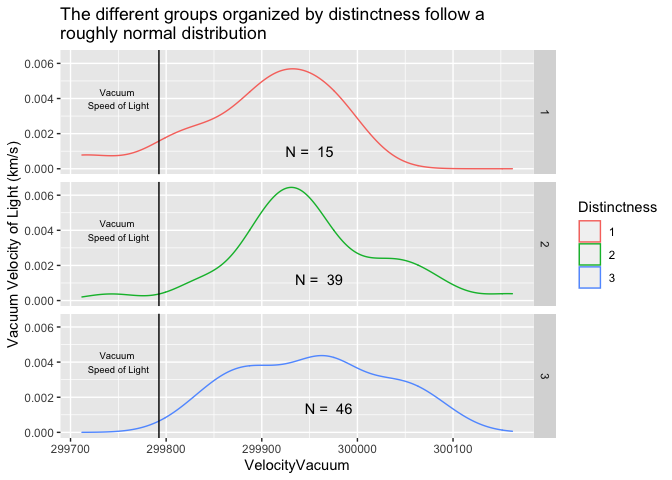
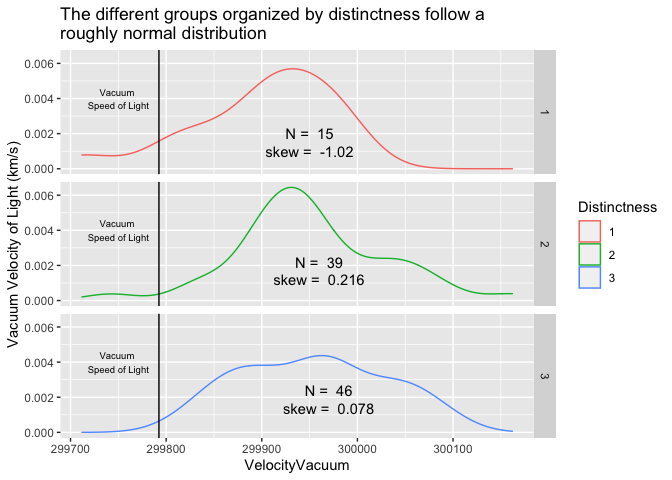
Final draft!

diff --git a/challenges/c02-michelson-assignment.md b/challenges/c02-michelson-assignment.md
@@ -66,6 +66,7 @@ for more information.
 library(tidyverse)
 library(googlesheets4)
 library(cowplot)
+library(moments)
 
 url <- "https://docs.google.com/spreadsheets/d/1av_SXn4j0-4Rk0mQFik3LLr-uf0YdA06i3ugE6n-Zdo/edit?usp=sharing"
 
@@ -241,7 +242,8 @@ df_error <- df_q2 %>%
     min = min(VelocityVacuum),
     mean_uncertainty = (max-min)/(2*sqrt(count)),
     rel_uncertainty = mean_uncertainty/avg,
-    rel_err = abs((avg - LIGHTSPEED_VACUUM)/LIGHTSPEED_VACUUM)*100
+    rel_err = abs((avg - LIGHTSPEED_VACUUM)/LIGHTSPEED_VACUUM)*100,
+    skew = round(skewness(VelocityVacuum),3)
     )
 ```
 
@@ -252,11 +254,11 @@ df_error %>%
   knitr::kable()
 ```
 
-| Distinctness | count |      avg |    max |    min | mean\_uncertainty | rel\_uncertainty |  rel\_err |
-| :----------- | ----: | -------: | -----: | -----: | ----------------: | ---------------: | --------: |
-| 1            |    15 | 299900.0 | 299992 | 299712 |          36.14784 |        0.0001205 | 0.0358721 |
-| 2            |    39 | 299950.5 | 300162 | 299742 |          33.62691 |        0.0001121 | 0.0527043 |
-| 3            |    46 | 299953.7 | 300092 | 299812 |          20.64187 |        0.0000688 | 0.0537976 |
+| Distinctness | count |      avg |    max |    min | mean\_uncertainty | rel\_uncertainty |  rel\_err |    skew |
+| :----------- | ----: | -------: | -----: | -----: | ----------------: | ---------------: | --------: | ------: |
+| 1            |    15 | 299900.0 | 299992 | 299712 |          36.14784 |        0.0001205 | 0.0358721 | \-1.020 |
+| 2            |    39 | 299950.5 | 300162 | 299742 |          33.62691 |        0.0001121 | 0.0527043 |   0.216 |
+| 3            |    46 | 299953.7 | 300092 | 299812 |          20.64187 |        0.0000688 | 0.0537976 |   0.078 |
 
 ***Observations***:
 
@@ -279,12 +281,12 @@ between Michelson’s estimate and `LIGHTSPEED_VACUUM`?
 ## Your code here!
 
 dat_text <- data.frame(
-  label = paste("N = ",as.character(pull(df_error,2))),
+  label1 = paste("N = ",as.character(pull(df_error,2))),
+  label2 = paste("skew = ", as.character(pull(df_error, "skew"))),
   Distinctness   = pull(df_error,1),
   x     = c(299950, 299960, 299970),
-  y     = c(0.001, 0.0012, 0.0014)
+  y     = c(0.002, 0.0022, 0.0024)
 )
-
 
 plot1 <- df_q2 %>% 
   ggplot() +
@@ -302,7 +304,11 @@ plot1 <- df_q2 %>%
   geom_vline(xintercept = LIGHTSPEED_VACUUM) +
   geom_text(
     data= dat_text,
-    mapping = aes(x = x, y = y, label = label) 
+    mapping = aes(x = x, y = y, label = label1) 
+  ) +
+  geom_text(
+    data= dat_text,
+    mapping = aes(x = x, y = y-0.001, label = label2) 
   )
 
 plot3 <- df_q2 %>% 
@@ -366,6 +372,27 @@ plot5 <- df_error %>%
     ## Warning: Ignoring unknown parameters: width
 
 ``` r
+plot9 <- df_q2 %>%
+  ggplot() +
+  geom_hline(yintercept = LIGHTSPEED_VACUUM) +
+  geom_point(aes(x = Date, alpha = Temp, color = Distinctness, y = Velocity)) +
+  geom_smooth(aes(x = Date, y = Velocity))
+
+plot10 <- df_q2 %>% 
+  ggplot() +
+  geom_density(
+    aes(Temp, 
+        color = Distinctness, 
+        group = Distinctness)
+    ) +
+  facet_grid(Distinctness~.) +
+  geom_text(
+    data= dat_text,
+    mapping = aes(x = c(80,80,80), y = c(0.04, 0.02, 0.01), label = label1)
+  )
+```
+
+``` r
 plot1 + labs(title = "The different groups organized by distinctness follow a \nroughly normal distribution", y = "Vacuum Velocity of Light (km/s)")
 ```
 
@@ -373,17 +400,91 @@ plot1 + labs(title = "The different groups organized by distinctness follow a \n
 
 ***Observations for first plot***
 
+  - **Distinctness groups 2 and 3 demonstrate a tendency towards a
+    normal distribution indicating that his data is clustered enough to
+    demonstrate a clear mean.**
+  - **Distinctness group 1 demonstrated a skew to the left but I wonder
+    if this is because a larger sample size would resolve the skew.**
+
+<!-- end list -->
+
 ``` r
-plot3 + labs(title = "Density of Velocity of Light (measured but not corrected) vs Temperature", subtitle = "True Vacuum Velocity of Light denoted with a white horizontal line", x = "Velocity (km/s)", y = "Temperature (degrees C)")
+plot3 + labs(title = "Density of Velocity of Light (measured but not corrected) vs Temperature", subtitle = "True Vacuum Velocity of Light denoted with a black horizontal line", y = "Vacuum Velocity of Light (km/s)", x = "Temperature (degrees F)")
 ```
 
 ![](c02-michelson-assignment_files/figure-gfm/second%20plot-1.png)<!-- -->
+
+***Observations for second plot***
+
+  - **There was not a clear and strong relationship between temperature
+    and distinctness.**
+  - **That being said, it would seem that the images were most distinct
+    (3) at temperatures between 70-80 degrees F. The question is - was
+    this good luck, is there a correlation, or could it be a cause?**
+  - **Given the high human effort to perform tests, I wonder if simply
+    comfortability (that is to say, most people are comfortable in 70-80
+    degree F environments, hotter is sticky and gross).**
+  - **Alternatively, with research I see that humidity affects the
+    refractive index of air, so perhaps this was at play on particularly
+    cool or hot days.**
+
+<!-- end list -->
 
 ``` r
 plot5 + labs(title = "Vacuum Velocity Uncertainty by Distinctness", y = "Average Vacuum Velocity of Light (km/s)", subtitle = "Whisker represent calculated uncertainty in the mean per Distinctness")
 ```
 
 ![](c02-michelson-assignment_files/figure-gfm/third%20plot-1.png)<!-- -->
+
+***Observations for third plot***
+
+  - **Michelson’s nominal speed of light looks well informed by his data
+    set: The Michelson’s nominal speed of light is very similar to the
+    mean of Distinctness group 2 and 3.**
+  - **The uncertainty in his measurement (aka range/2) is large enough
+    to capture the true vacuum speed of light.**
+  - **Michelson’s estimated range is well informed by his data set - it
+    accomodated both the estimated measurement errors (outlined in his
+    [report](https://play.google.com/books/reader?id=343nAAAAMAAJ&hl=en&pg=GBS.PA115))
+    and the uncertainty in the mean (demonstrated with the whiskers).**
+
+<!-- end list -->
+
+``` r
+plot9 + labs(title = "Velocity measurements approached the true vacuum velocity of light over time", subtitle = "True Vacuum Velocity of Light denoted with a black horizontal line", y = "Measured Velocity of Light (km/s)", x = "Date")
+```
+
+    ## `geom_smooth()` using method = 'loess' and formula 'y ~ x'
+
+![](c02-michelson-assignment_files/figure-gfm/fourth%20plot-1.png)<!-- -->
+
+***Observations for fourth plot***
+
+  - **The velocity measurements (before correcting for temperature)
+    approached the true vacuum velocity of light - could this be because
+    the testers were more used to the test procedure, were having a
+    great couple of days, or was something meteorological going on?**
+  - **It looks like the temperature vs distinctness is not concentrated
+    - bu how about I confirm?**
+
+<!-- end list -->
+
+``` r
+plot10 + labs(title = "The density of the high distinctness group (3) is forming a normal distribution", subtitle = "However being in this temperature range does not mean the distinctness will be high", x = "Temperature (degree F)")
+```
+
+![](c02-michelson-assignment_files/figure-gfm/fifth%20plot-1.png)<!-- -->
+
+***Observations for fifth plot***
+
+  - **Distinctness group 3 images more frequently occur when the
+    temperature is about 75-98 degrees F - and it is following a normal
+    distribution with a skew to the right.**
+  - **Other distinctness groups do not demonstrate a clear
+    distribution.**
+  - **This is where I got tired so I stopped working here\! Upon
+    reflection, this plot just re-terates my density plot. So this is a
+    good example of having few but powerful plots\!**
 
 ## Bibliography
 
@@ -393,3 +494,8 @@ plot5 + labs(title = "Vacuum Velocity Uncertainty by Distinctness", y = "Average
   - \[2\] Henrion and Fischhoff, [Assessing Uncertainty in Physical
     Constants](https://www.cmu.edu/epp/people/faculty/research/Fischoff-Henrion-Assessing%20uncertainty%20in%20physical%20constants.pdf)
     (1986)
+  - \[3\] <https://brownmath.com/stat/shape.htm#>
+  - \[4\]
+    <https://www.physics.upenn.edu/sites/default/files/Managing%20Errors%20and%20Uncertainty.pdf>
+  - \[5\]
+    <https://www.bellevuecollege.edu/physics/resources/measure-sigfigsintro/b-acc-prec-unc/>
